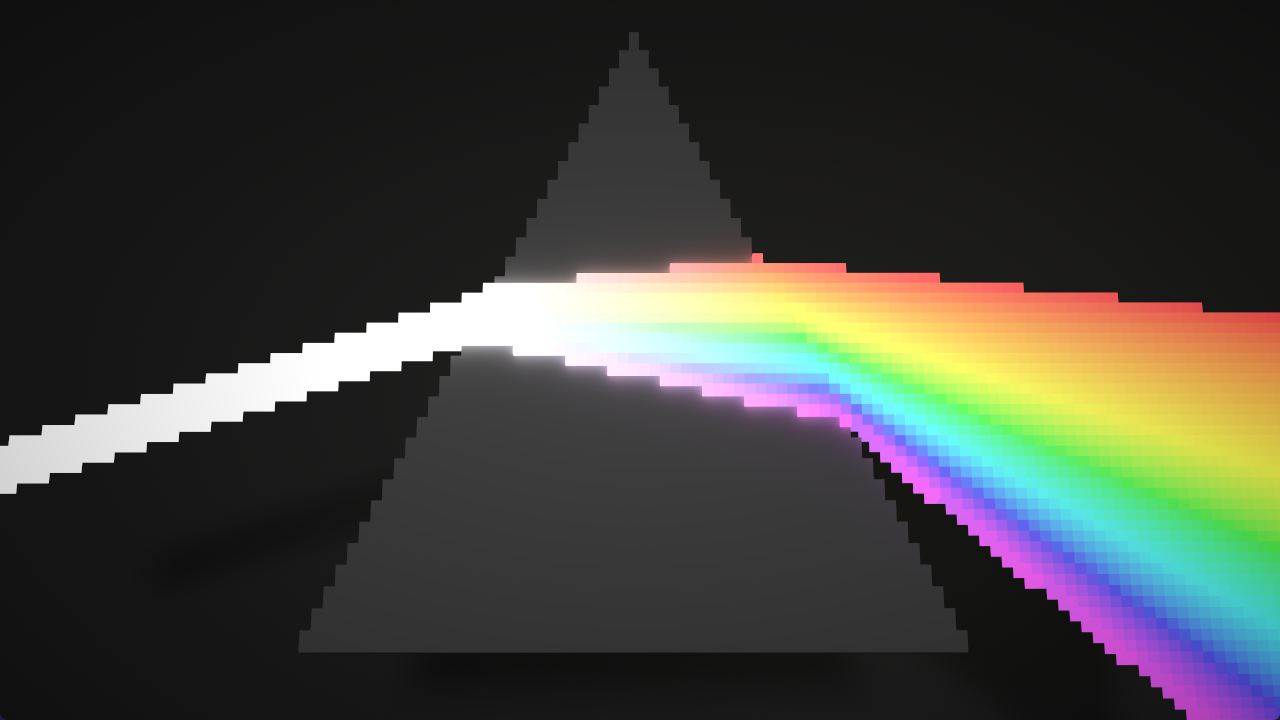
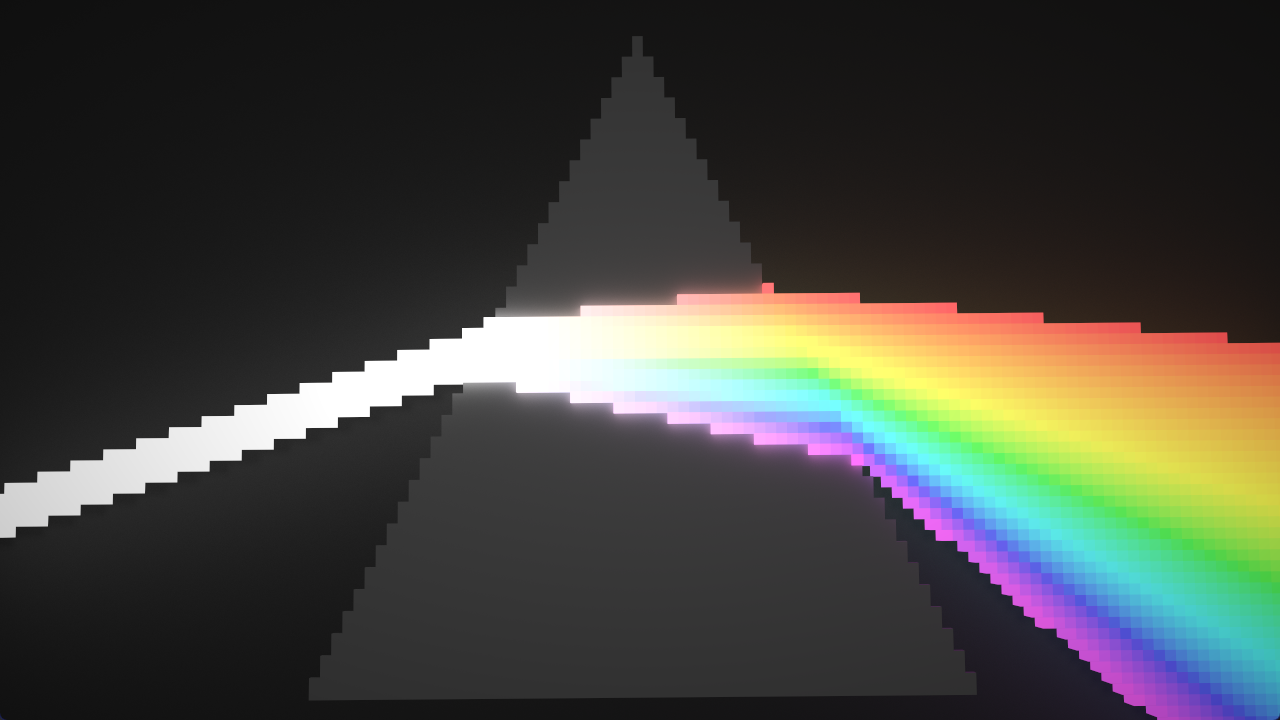
20220508b

diff --git a/围棋.py b/围棋.py
@@ -1,0 +1,56 @@
+from scene import Scene
+import taichi as ti
+from taichi.math import *
+v场景 = Scene(voxel_edges = 0, exposure = 1)
+v场景.set_floor(-2/64, (0.1, 0.2, 0.1))
+v场景.set_background_color((0.5, 0.5, 0.9))
+# v场景.set_directional_light((0, 1, 0), 0.1, (0.5, 0.5, 0.5))
+v棋谱 = """0000000000000000000\
+0020000022022011100\
+0202100211012121220\
+0021000000012122120\
+0110000000122121000\
+0212000001000122200\
+0122000002110010000\
+0010100000002222000\
+0000000000112110000\
+0000002020001201000\
+0000200002210021000\
+0020001002110201000\
+0000200000210021000\
+0011112121210021000\
+0212020222012122100\
+0111220212210211100\
+0212022112122021000\
+0000111001100002100\
+0000000000000000000"""
+v棋谱 = list(int(x) for x in v棋谱)
+c黑棋颜色 = vec3(0.1, 0.1, 0.1)
+c白棋颜色 = vec3(1, 1, 1)
+@ti.kernel
+def f初始化棋盘():
+	#棋盘
+	for x, y, z in ti.ndrange((-40, 41), (-2, 0), (-40, 41)):	#底座
+		c = vec3(ti.random()*0.1 + 0.9, ti.random()*0.1 + 0.4, ti.random()*0.1)
+		v场景.set_voxel(vec3(x, y, z), 1, c)
+	for i in range(19):	#网格线
+		a = (i-9)*4
+		for j in range(-36, 37):
+			v场景.set_voxel(vec3(a, -1, j), 1, vec3(0.1, 0.1, 0.1))
+			v场景.set_voxel(vec3(j, -1, a), 1, vec3(0.1, 0.1, 0.1))
+@ti.kernel
+def f落子(x: int, y: int, c: int):
+	#计算棋子在空间中的坐标
+	x1, y1 = (x-9)*4, (y-9)*4
+	c1 = c黑棋颜色 if c == 1 else c白棋颜色
+	#生成棋子
+	for i, j in ti.ndrange((-1, 2), (-1, 2)):
+		v场景.set_voxel(vec3(x1+i, 0, y1+j), 2, c1)
+	v场景.set_voxel(vec3(x1, 1, y1), 2, c1)	
+f初始化棋盘()
+for i in range(19*19):
+	v棋子 = v棋谱[i]
+	if v棋子 != 0:
+		x, y = i % 19, i // 19
+		f落子(x, y, v棋子)
+v场景.finish()

diff --git a/三棱镜.py b/三棱镜.py
@@ -2,7 +2,7 @@ from scene import Scene
 import taichi as ti
 from taichi.math import *
 v场景 = Scene(voxel_edges = 0, exposure = 1)
-v场景.set_floor(-1, (0.1, 0.1, 0.1))
+v场景.set_floor(-8/64, (0.1, 0.1, 0.1))
 v场景.set_directional_light((0, 1, 0), 0.1, (0.1, 0.1, 0.1))
 N = 64	#大小
 半N = N // 2

diff --git a/README.md b/README.md
@@ -1,9 +1,9 @@
 # <a name="title">Taichi Voxel Challenge</a>
 
-[小孔成像.py](小孔成像.py)
-![小孔成像](小孔成像.png)
 [三棱镜.py](三棱镜.py)
 ![三棱镜](三棱镜.png)
+[围棋.py](围棋.py)
+![围棋](围棋白.png)
 
 
 We invite you to create your voxel artwork, by putting your [Taichi](https://github.com/taichi-dev/taichi) code in `main.py`!
